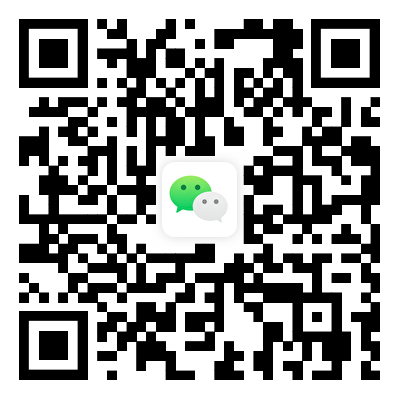
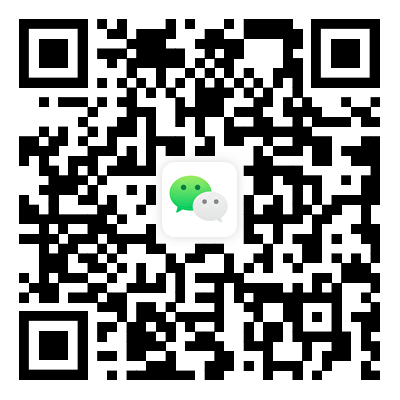
fix qr

diff --git a/README.md b/README.md
@@ -73,8 +73,8 @@
     - ... ...
 
   ## 联系客服
-    - 客服微信：chenxi_apple888
-    - ![联系客服](https://github.com/gdswcxzljj/ai_paper/blob/main/img/kefu.png?t=1)
+    - aikefu68
+    - ![联系客服](https://github.com/gdswcxzljj/ai_paper/blob/main/img/kefu.png?t=2)
 
   ## 💥💥💥用户使用反馈
   ![系统截图](https://github.com/gdswcxzljj/ai_paper/blob/main/img/1111.jpeg)
